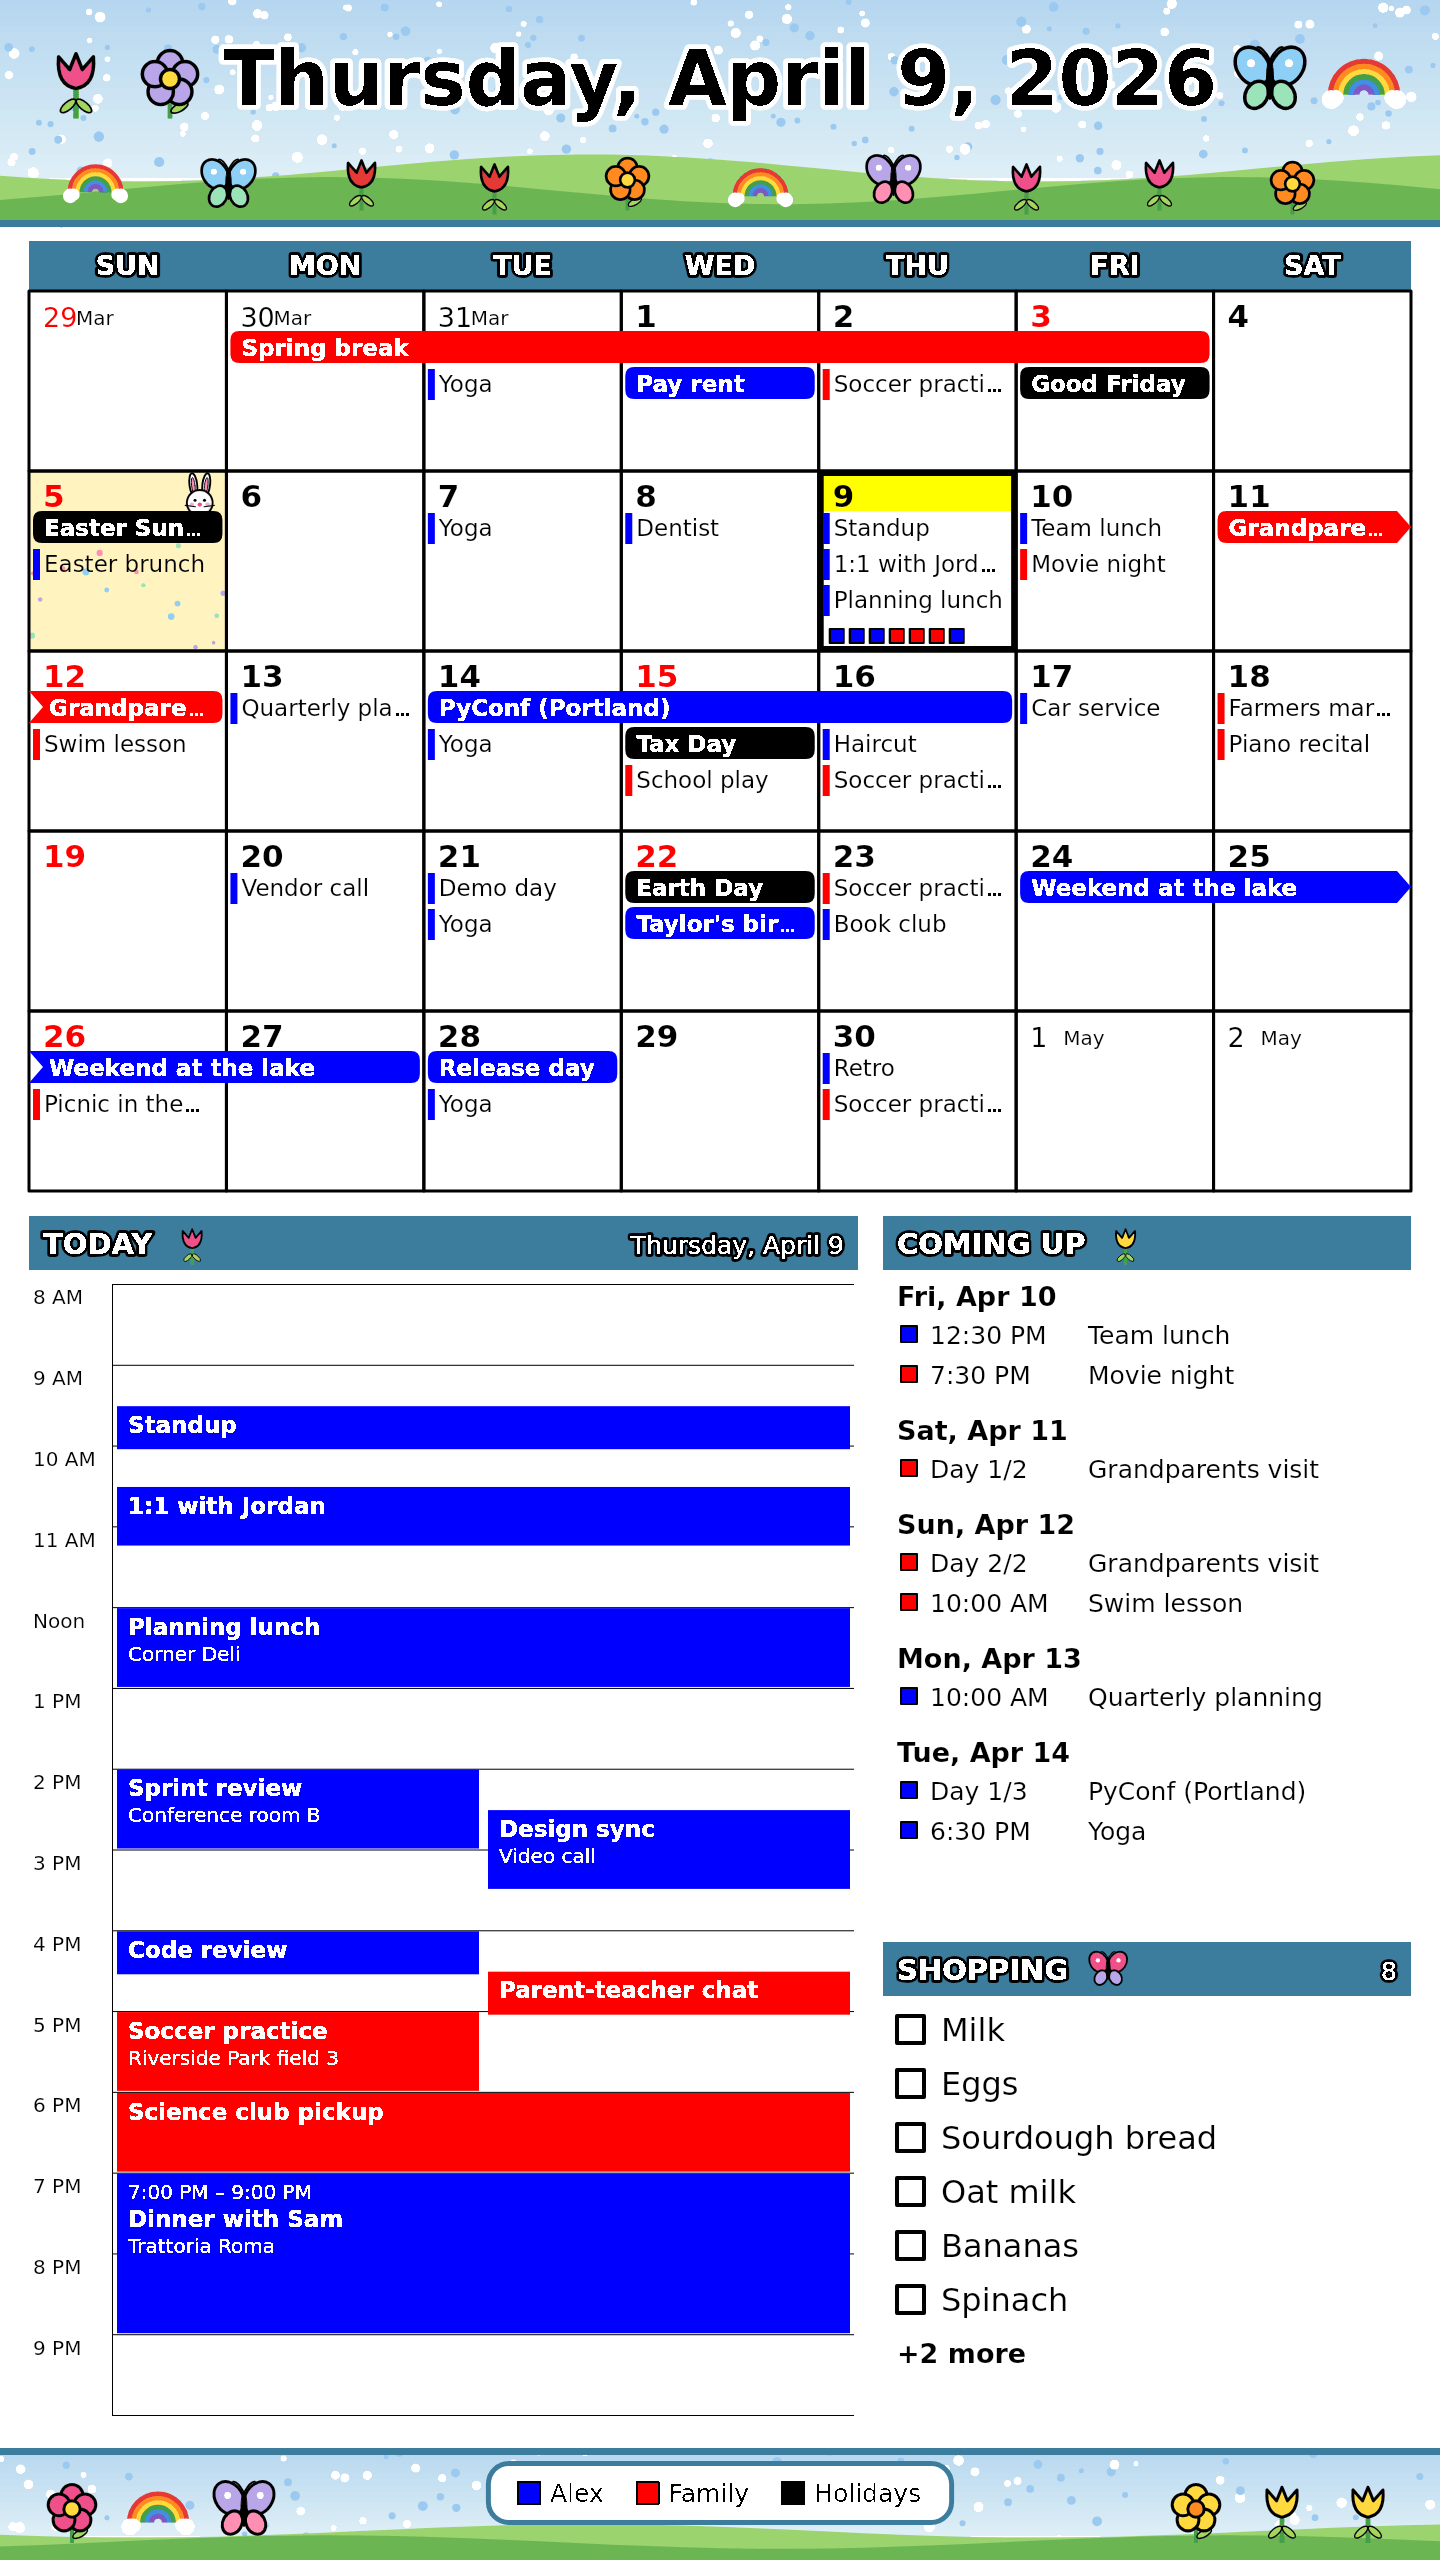
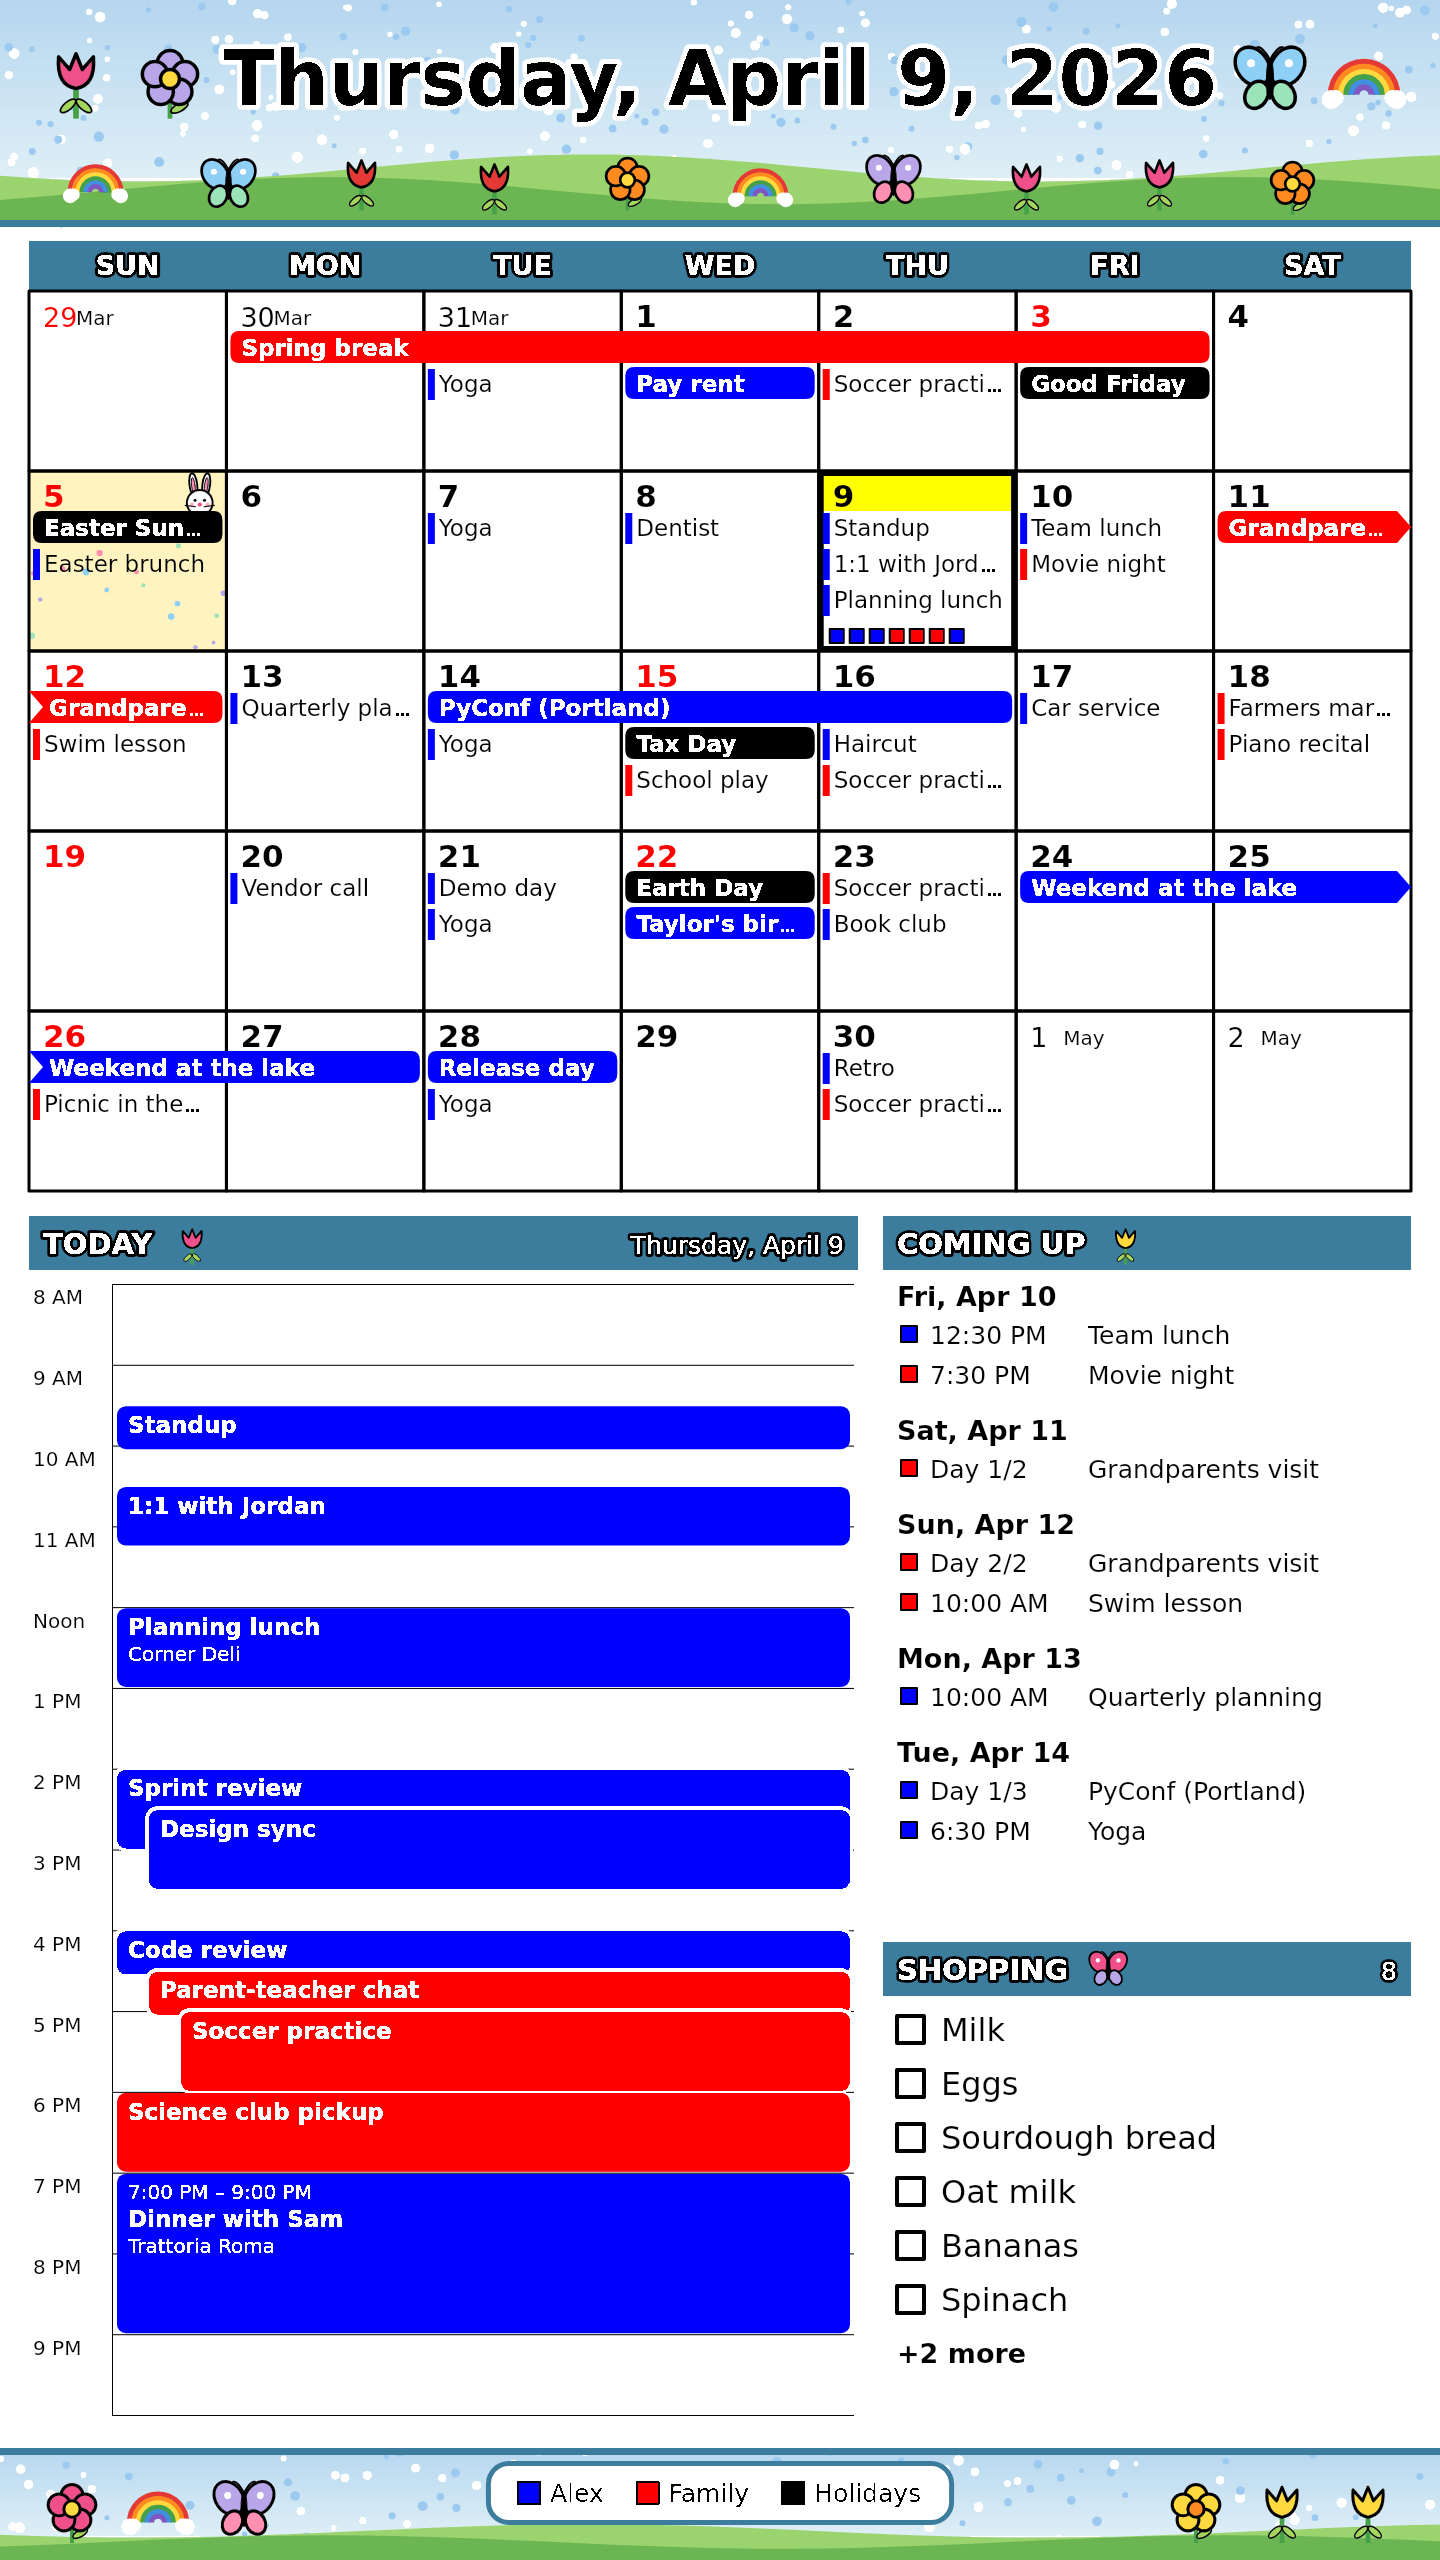
Additional treatment of high-overlap situations and slight style updates

Changed region(s): [[0.0625, 0.6875, 0.5938, 0.8438]]

diff --git a/docs/CONFIGURATION.md b/docs/CONFIGURATION.md
@@ -28,7 +28,15 @@ Pick one with `LAYOUT` (or `DISPLAY_<ID>_LAYOUT`, or the **Layout** selector in 
 | Layout | What it is |
 |---|---|
 | `paper` (default) | A printed wall calendar: colored weekday band, boxed days, red Sundays and holidays, then today's agenda and the shopping list. |
-| `timeline` | A compact month (shorter rows: all-day bars first, then as many timed titles as fit, then a colored dot for each one that does not), then today hour by hour (blocks sized by duration, overlaps side by side) beside Coming up and the shopping list. |
+| `timeline` | A compact month (shorter rows: all-day bars first, then as many timed titles as fit, then a colored dot for each one that does not), then today hour by hour (blocks sized by duration, overlaps side by side) beside Coming up and the shopping list. See below for long and crowded days. |
+
+**A long or crowded day in the timeline.** The hour-by-hour view stays readable in four ways:
+- A timed event as long as `TIMELINE_AMBIENT_HOURS` (default 24: a whole day, such as a 24/7 gym) is shown as an all-day chip above the hours, like Google Calendar does. It does not stretch the hours or take lane width. A long event shorter than that stays a block.
+- Overlapping events cascade, as in Google Calendar, instead of splitting the width into equal columns: each event lies over the earlier ones with a thin white border, reaches the right edge, and starts a little to the right of the event it overlaps. If it begins within that event's title it starts just past the end of the title, so it never covers text; if it begins below the title it covers more of the event. Titles are clipped where the next event begins.
+- A run of `TIMELINE_BREAK_HOURS` (default 3) or more empty hours is folded into one thin break row (`1 AM - 9 AM`), so the busy part of the day keeps its height. An hour is empty if no event overlaps it.
+- If the hours still cannot be drawn legibly (an hour would be under about 54 px, or more than six events overlap at once), today is listed in time order instead, with every event on its own line (squeezed to fit; "+N more" only past about two dozen).
+
+Set either setting to 0 to turn it off; with both at 0 the day is always drawn as hours. An event that ends exactly at midnight runs to the end of the day.
 
 Red day numbers mark Sundays, and the days of any calendar with `mark_days: true` (`CALENDAR_<ID>_MARK_DAYS=true`;
 use it for a holidays calendar).
